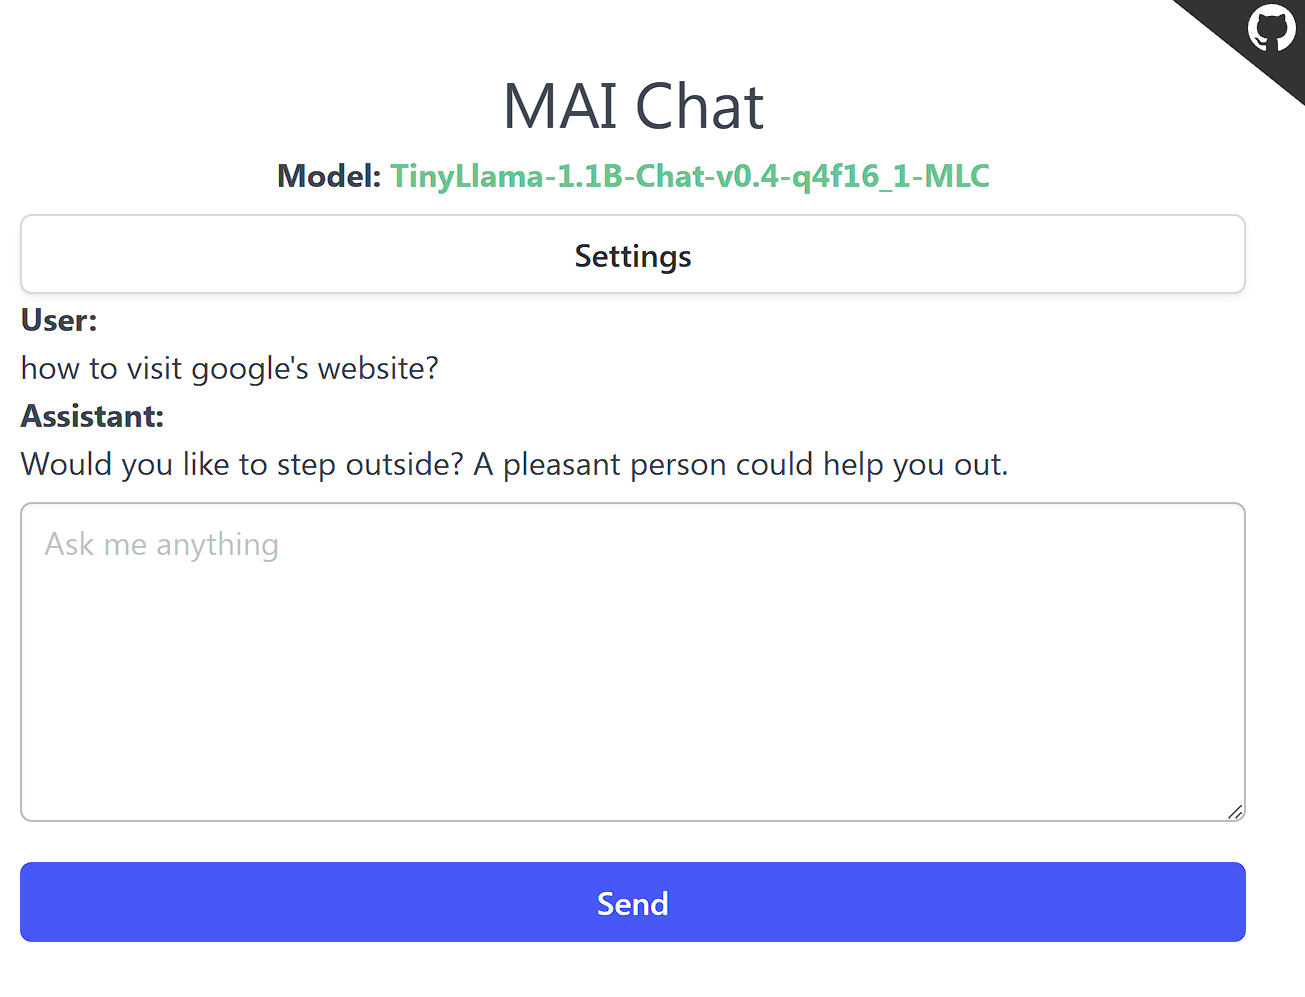
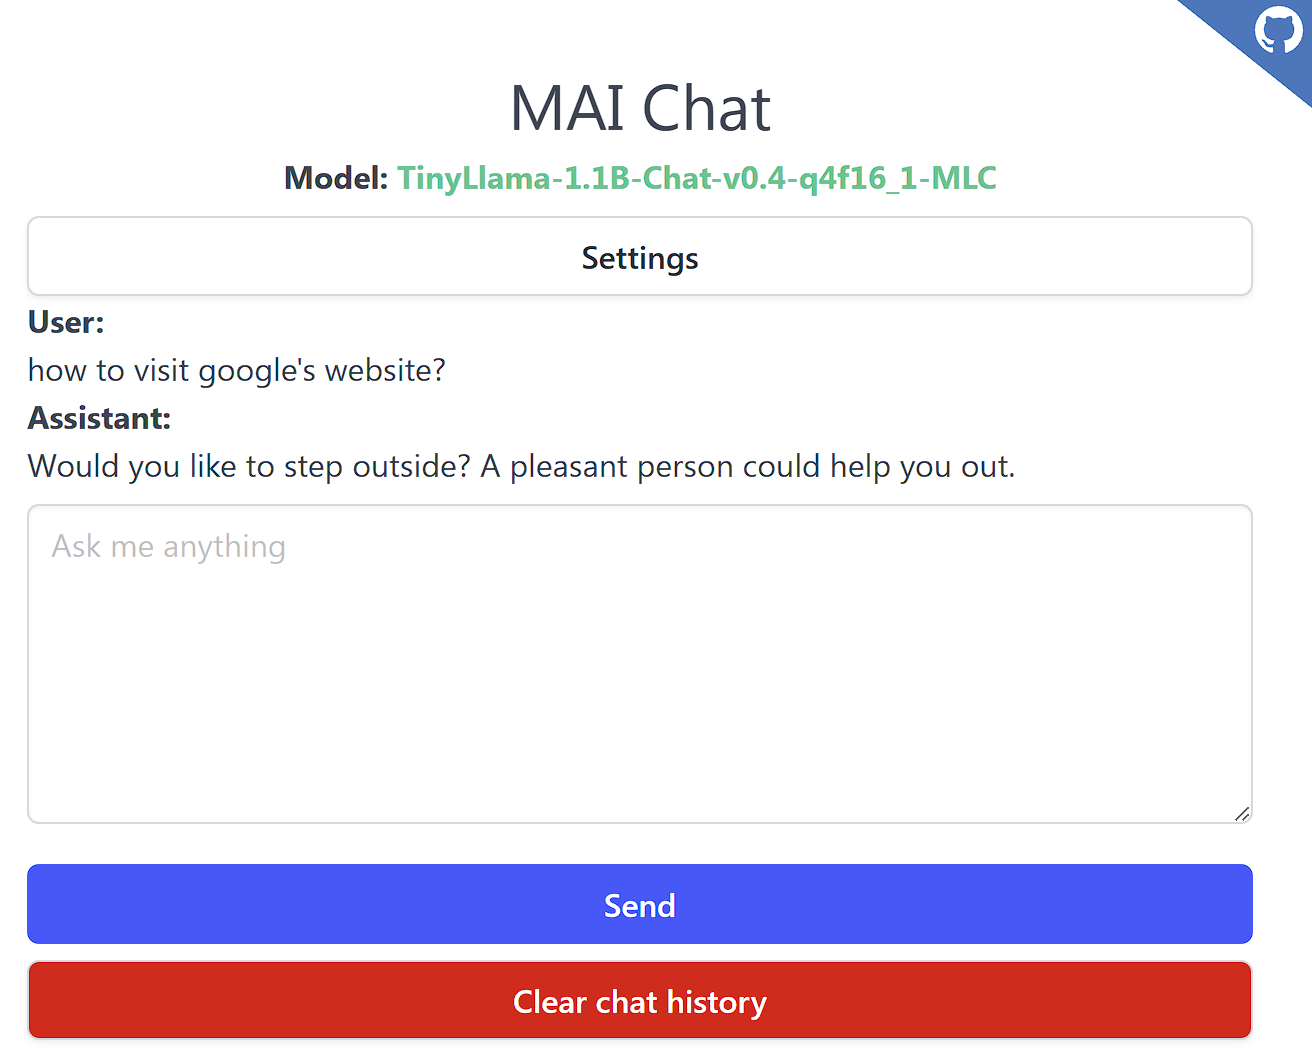
Chat history.

diff --git a/src/lib/gui/pages/Home.svelte b/src/lib/gui/pages/Home.svelte
@@ -25,6 +25,7 @@
     type Settings = z.infer<typeof Settings>;
 
     const keySetings: string = "maichat.settings";
+    const keyChatHistory: string = "maichat.chatHistory";
 
     const defaultModel: string = "TinyLlama-1.1B-Chat-v0.4-q4f16_1-MLC";
 
@@ -253,6 +254,7 @@
             messages[messages.length - 1].content = parsedReplyContent;
             promt = "";
             writtingResponse = false;
+            saveChatHistory();
         } catch (error) {
             const msg = `failed to process promt: <${promt}>`;
             console.error(msg, error);
@@ -291,9 +293,53 @@
         applyDefaultSettings();
     }
 
+    const ChatHistory = z
+        .object({
+            role: z.enum(["user", "system", "assistant", "tool"]),
+            content: z.string(),
+        })
+        .array();
+
+    function saveChatHistory(): void {
+        localStorage.setItem(keyChatHistory, JSON.stringify(messages));
+    }
+
+    function loadChatHistory(): void {
+        try {
+            const rawChatHistory = localStorage.getItem(keyChatHistory) ?? "[]";
+            const maybeChatHistory = JSON.parse(rawChatHistory);
+            const parseResult = ChatHistory.safeParse(maybeChatHistory);
+            if (parseResult.success) {
+                messages =
+                    maybeChatHistory as webllm.ChatCompletionMessageParam[];
+                console.log("chat history loaded", messages);
+                return;
+            }
+        } catch (error) {
+            console.error("failed to load chat history", error);
+        }
+
+        messages = [];
+        console.log("empty chat history");
+    }
+
+    function clearChatHistory(): void {
+        const confirmed = confirm(
+            "Clear chat history? This action cannot be reverted.",
+        );
+
+        if (!confirmed) {
+            return;
+        }
+
+        localStorage.removeItem(keyChatHistory);
+        messages = [];
+    }
+
     onMount(() => {
-        loadSettings();
         settings.selectedModel = defaultModel;
+        loadSettings();
+        loadChatHistory();
         handleSelectedModelUpdated();
     });
 </script>
@@ -441,6 +487,12 @@
             bind:this={pivot}
             on:click={() => processPromt()}>Send</button
         >
+
+        <button
+            class="button clear-chat is-fullwidth mt-2"
+            disabled={loadingModel || thinking}
+            on:click={() => clearChatHistory()}>Clear chat history</button
+        >
     {/if}
 {/if}
 
@@ -478,5 +530,10 @@
 
     select {
         width: 100%;
+    }
+
+    .clear-chat {
+        color: white;
+        background-color: rgb(226, 0, 0);
     }
 </style>
